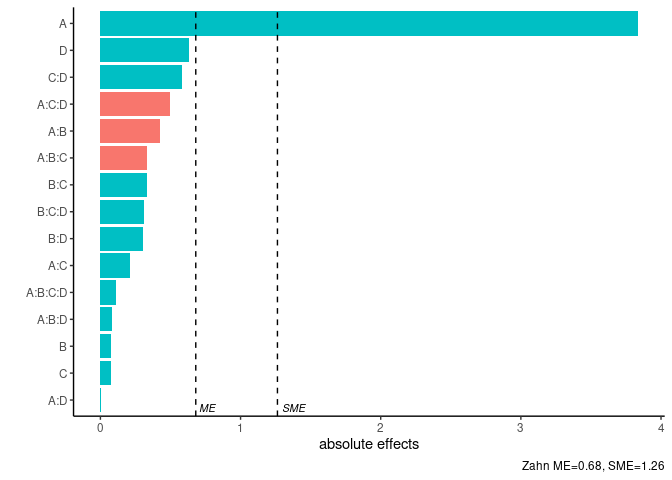
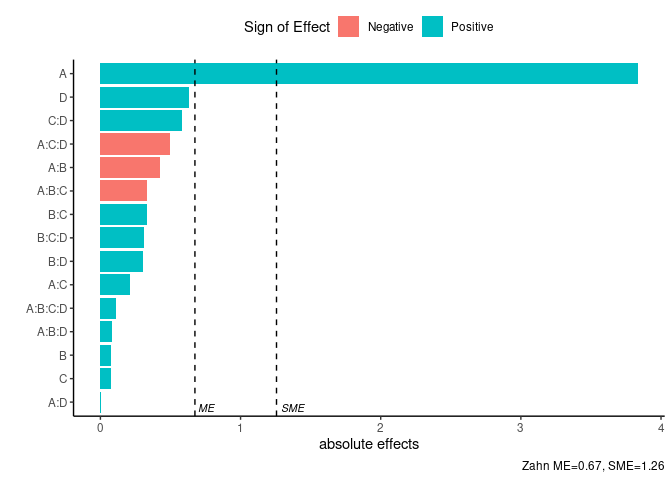
updated default arguments for some functions, other small fixes

diff --git a/README.md b/README.md
@@ -66,7 +66,7 @@ alias_matrix(design=aliased_design, symmetric=TRUE)
 
 ``` r
 model <- lm(s2 ~ (A+B+C+D),data = adapted_epitaxial)
-boxcox_transform(model,lambda = seq(-2,3,0.2))
+boxcox_transform(model,lambda = seq(-5,5,0.2))
 ```
 
 ![](README_files/figure-gfm/unnamed-chunk-5-1.png)<!-- -->
@@ -93,7 +93,7 @@ half_normal(m1)
 ``` r
 half_normal(m1,method='Zahn',alpha=0.1,
             ref_line=TRUE,label_active=TRUE,
-            showME=TRUE)
+            margin_errors=TRUE)
 ```
 
 ![](README_files/figure-gfm/unnamed-chunk-8-1.png)<!-- -->
@@ -129,6 +129,7 @@ main_effects(original_epitaxial,
 main_effects(original_epitaxial,
              response='s2',
              exclude_vars = c('A','ybar','lns2'),
+             color_palette = 'viridis',
              ncols=3)
 ```
 
